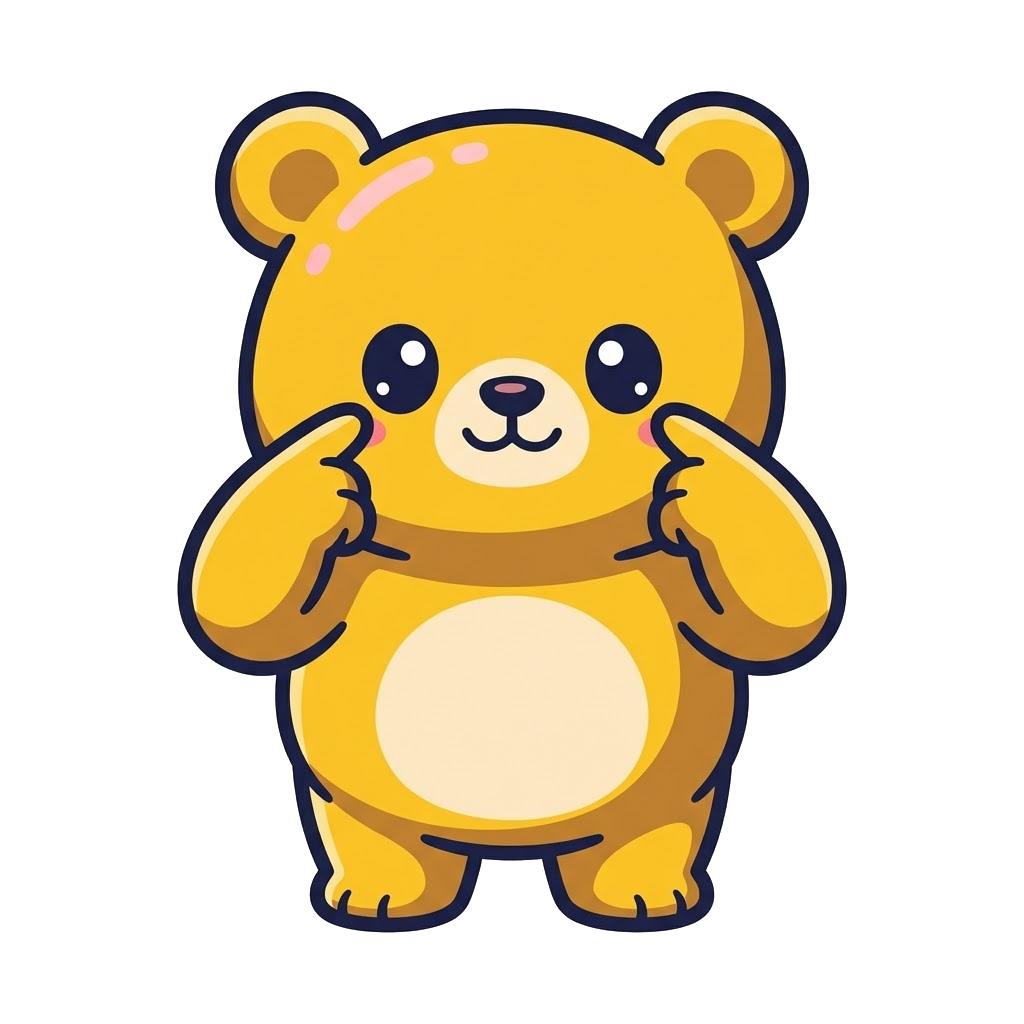
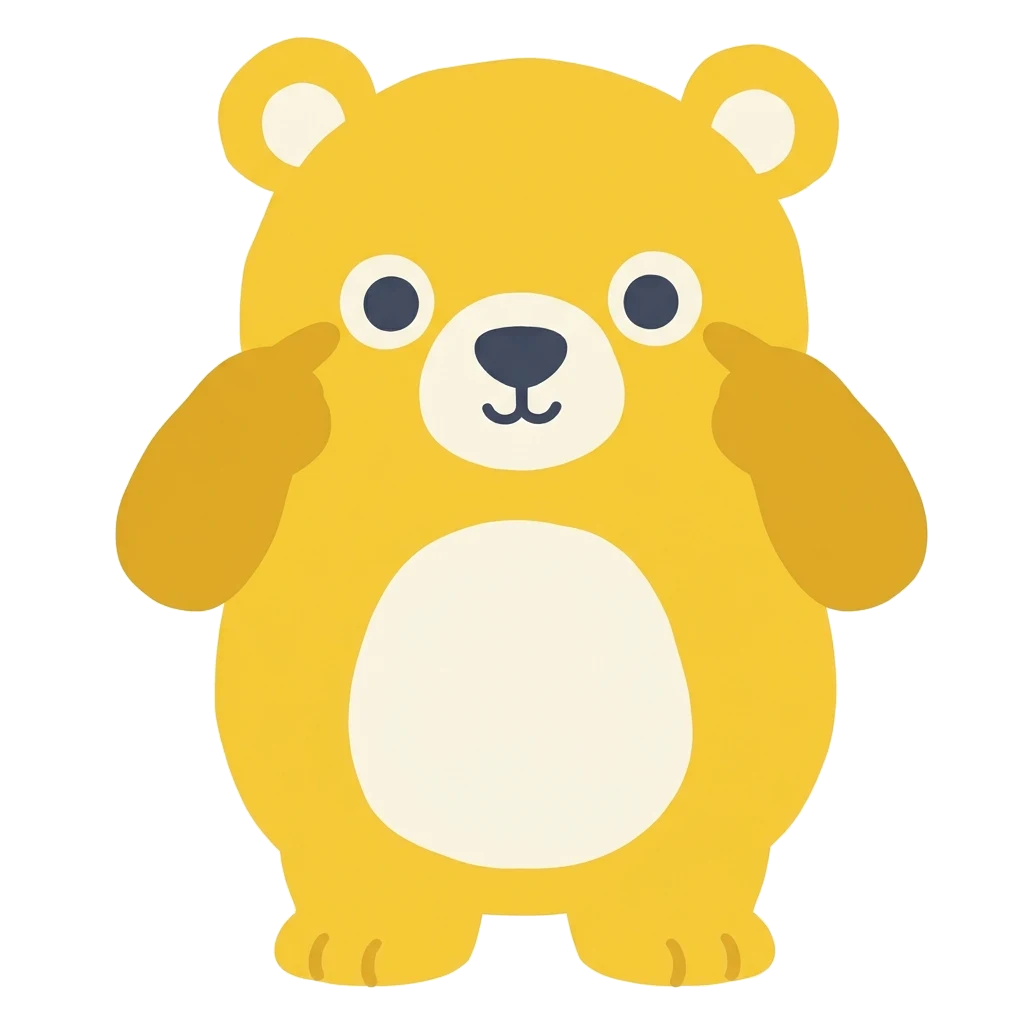
身體 8 張換成 Pok Pok 風：小熊指著自己的部位，手臂用深一階的黃才看得見
無框線風格下黃手疊在黃臉上會消失，角色設定裡指定重疊的手臂用 #e9b93a。
指南的身體一節改成實際用的角色設定與八句動作；
CLAUDE.md 記下 Chrome 會靜默擋掉連續下載、以及怎麼避開。

diff --git a/CLAUDE.md b/CLAUDE.md
@@ -44,8 +44,8 @@
 
 ## 素材現況（2026-11-04）
 
-- 主題 8 組：動物 12、水果 12、交通工具 11、工程車 8、顏色 8（程式畫色球）、生活用品 10（Gemini，2026-11-04）、身體 8（Gemini，2026-11-04，小熊指著該部位）、形狀 8（2026-11-16，程式畫的平塗色塊：圓形／正方形／三角形／長方形／星星／愛心／橢圓形／菱形，`BabyAppUiSprites.EnsureShapeCards` 在選單 2 裡畫，檔案在就不重畫，要改樣子就刪 `Art/Cards/Shapes/*.png` 與 `Art/Covers/cover_shapes.png` 再跑選單 2）。**八組全部有圖，77 張卡的圖與語音都已接進 Deck 資產**（2026-11-16 跑完選單 2 確認 77/77）。注意「有 PNG」不等於「Deck 接上了」：丟完素材沒跑選單 2 的話，Deck 裡的 `image` 會留在 `{fileID: 0}`，整組就退回純文字卡——身體與生活用品兩組就這樣空轉過一段時間。要查就 grep `Assets/BabyApp/Resources/Decks/Deck_*.asset` 還有沒有 `image: {fileID: 0}`。身體卡的 prompt：「Same style, same honey bear character. Subject: the honey bear cub <動作>, front view, whole body visible.」，第一張要先貼小熊角色設定。
-- **2026-11-12 起改成 Pok Pok 風（平塗色塊、無框線、無陰影，見 docs/research/2026-11-12-PokPok風格.md 第 9 節）**，動物 12 張、水果 12 張（2026-11-13）、交通工具 11 張（2026-11-14）、工程車 8 張（2026-11-16，Subject 在 docs/AI圖片生成指南.md）、生活用品 10 張（2026-11-17）與小熊 5 張已換成新風格並去背；身體與 4 張封面在 Assets 裡還是舊的粗黑邊風格，待換（整組換齊才搬進 Assets，不要一組裡兩種風格）。舊圖全部 Gemini 生成並去背（2026-10-23）。OpenMoji 已不再使用（tools/openmoji-* 只是歷史）。
+- 主題 8 組：動物 12、水果 12、交通工具 11、工程車 8、顏色 8（程式畫色球）、生活用品 10（Gemini，2026-11-04）、身體 8（Gemini，2026-11-04，小熊指著該部位）、形狀 8（2026-11-16，程式畫的平塗色塊：圓形／正方形／三角形／長方形／星星／愛心／橢圓形／菱形，`BabyAppUiSprites.EnsureShapeCards` 在選單 2 裡畫，檔案在就不重畫，要改樣子就刪 `Art/Cards/Shapes/*.png` 與 `Art/Covers/cover_shapes.png` 再跑選單 2）。**八組全部有圖，77 張卡的圖與語音都已接進 Deck 資產**（2026-11-16 跑完選單 2 確認 77/77）。注意「有 PNG」不等於「Deck 接上了」：丟完素材沒跑選單 2 的話，Deck 裡的 `image` 會留在 `{fileID: 0}`，整組就退回純文字卡——身體與生活用品兩組就這樣空轉過一段時間。要查就 grep `Assets/BabyApp/Resources/Decks/Deck_*.asset` 還有沒有 `image: {fileID: 0}`。身體卡的角色設定與八句動作在 docs/AI圖片生成指南.md 的「身體」一節；無框線風格下黃手疊在黃臉上會看不見，所以角色設定裡指定「疊在身上的手臂用深一階的蜂蜜黃 #e9b93a」。
+- **2026-11-12 起改成 Pok Pok 風（平塗色塊、無框線、無陰影，見 docs/research/2026-11-12-PokPok風格.md 第 9 節）**，動物 12 張、水果 12 張（2026-11-13）、交通工具 11 張（2026-11-14）、工程車 8 張（2026-11-16，Subject 在 docs/AI圖片生成指南.md）、生活用品 10 張（2026-11-17）、身體 8 張（2026-11-17）與小熊 5 張已換成新風格並去背；只剩 4 張封面（animals／fruits／vehicles／construction）在 Assets 裡還是舊的粗黑邊風格，待換（整組換齊才搬進 Assets，不要一組裡兩種風格）。舊圖全部 Gemini 生成並去背（2026-10-23）。OpenMoji 已不再使用（tools/openmoji-* 只是歷史）。
 - 叫聲：25 個來自 Wikimedia Commons（出處在 docs/素材授權.md）。卡車＝柴油引擎、消防車＝消防鐘、工程車組共用柴油、堆高機專屬。兔子沒叫聲。
 - 名稱語音與小熊台詞（2026-11-05 換成 **Azure AI Speech**）：中文 `zh-TW-HsiaoYuNeural`（曉雨，使用者試聽三個聲音後選的）、英文 `en-US-AvaMultilingualNeural`，**語速 -5%、音高 +12%**（2026-11-16 使用者要「再高亢、開心、活潑一點」，原本是 -10%／+0%；這是工具的預設值），全部是剪掉頭尾靜音的 24kHz `.wav`（卡名 0.4～0.8 秒，以前 edge-tts 每個都墊到 1.87 秒）。工具 `python tools/make-voices-azure.py --voice zh-TW-HsiaoYuNeural --cards --prompts`（`--trial` 試聽到 `tools/azure-trial/`、`--list-voices`、`--only shape_` 只做某個前綴的卡或台詞），**會蓋掉同名檔**。zh-TW 的聲音（曉雨、曉臻、雲哲）**都沒有情緒風格**，想要 cheerful 只能換成會講 zh-TW 的 multilingual 聲音再加 `--style cheerful --style-degree 1.5`（例如 `zh-CN-XiaoxiaoMultilingualNeural`、童聲 `zh-CN-XiaoyouMultilingualNeural`，工具會自動包 `<lang xml:lang="zh-TW">`）；`--trial-lively` 會把五種候選各念六句到 `tools/azure-trial/lively/`（A 舊設定、B 現行、C 曉雨 +20%、D 曉曉 cheerful、E 曉悠童聲）。金鑰放 `tools/azure.key`（第一行 KEY 1、第二行區域 `eastasia`，已 gitignore，記事本存檔會多個 `.txt` 要改掉）；資源是 Free F0 層、每月 50 萬字免費，F0 商用授權不明，**發佈前改 S0 重跑一次整批**。台詞清單在 `tools/prompts.csv`，2026-11-05 全部縮短過（「哇～答對了！你好棒喔！」→「答對了！好棒！」），有逗號的句子要加引號不然 csv 會切掉。舊的 edge-tts `.mp3` 已全刪，`make-voices-edge.py` 只是歷史。**不要跑 `make-prompts.ps1`／`make-voices.ps1`**（舊的 SAPI 版）：它們只檢查 `.wav` 存不存在，會把全部台詞重生成 SAPI 的 `.wav`，而 Builder 的 `Prompt()` 優先吃 `.wav`，小熊的聲音會整個被換掉。
 - 吉祥物：五張蜂蜜小熊 Gemini 生成並去背（Art/Mascot，2026-11-13 換成 Pok Pok 風、無框線）。`EnsureMascotPlaceholders()` 只在檔案缺時畫程式佔位。
@@ -61,7 +61,7 @@
 
 流程：`list_connected_browsers` 先認清哪台是**這台電腦**（`onThisComputer: true`；使用者另一台電腦的 Chrome 也會連著，選錯檔案會存到那台去，2026-11-12 就發生過）→ `select_browser` → `tabs_context_mcp` → 開 gemini.google.com/app → 「+」→「建立圖像」→ 貼 prompt → Enter。生好的圖在頁面上是 `blob:` 的 `<img>`，用 javascript_tool 畫到 canvas → `toBlob` → `<a download="animal_dog.png">`，檔案落在**這個 Chrome 設定檔的下載資料夾**（Profile 1 是 `C:\Users\Bachider\Desktop`，從 `%LOCALAPPDATA%\Google\Chrome\User Data\*\Preferences` 的 `download.default_directory` 查），再 `mv` 進 `tools/gemini-incoming/`（gitignored）→ `python tools/knockout-white.py` 在副本上去背 → cp 進 `Assets/BabyApp/Art/...` → 跑選單 2。
 
-**節奏（會咬人）**：一張 ~40～65 秒。**圖還沒出現就送下一句，前一句的回覆會變成空的**，之後那個對話就壞了（兩句都空）；所以每送一句就輪詢 `img` 數量（naturalWidth ≥ 512、排除 gstatic）確認多了一張才送下一句，一句最多等 ~2 分鐘，沒圖就重送同一句一次（2026-11-13 水果 9 張：西瓜、鳳梨各空一次、重送就有，其餘一次過）。輪詢放在頁面 JS 裡等（`await __wait(n, 38000)`），**單次 `javascript_tool` 超過 45 秒會 CDP 逾時**，所以一次最多等 38 秒、多叫幾次。每一組卡用**新對話**，第一句貼完整風格段落 + 主體，之後只貼「Same style exactly (flat hand-cut paper, solid fills, NO outlines, …). Subject: …」。**模式要是「4 Hydrogen」**（右下角模式挑選器）：額度用完後 Gemini 會自己切到「3.5 Flash-Lite」，隔天也不會切回來，Flash-Lite 畫出來是另一套（紙張紋理灰白底、細線條、淡陰影、白車身白窗戶），2026-11-14 消防車／救護車／警車就這樣重生過一次；白色主體要寫 `cream-white body (warm cream #f3eedf, not pure white)`，不然去背會把車身一起淹掉。一次 browser_batch 最多 25 個動作；視窗窄時用 `find` 拿 ref 而不是座標。**額度**：一天約 25～30 張就會開始偶爾空回覆（2026-11-16 用 Hydrogen 只生到 15 張就滿，別假設一天能做兩組以上），最後 Gemini 直接回「我的程式設計裡沒有這樣的功能」或「I can create more images as soon as your limit resets」= 今天沒了；後者下面會有一塊「已達上限」面板寫重設時間（2026-11-13 看到的是上午 6:26），等那個時間過了再來。
+**節奏（會咬人）**：一張 ~40～65 秒。**圖還沒出現就送下一句，前一句的回覆會變成空的**，之後那個對話就壞了（兩句都空）；所以每送一句就輪詢 `img` 數量（naturalWidth ≥ 512、排除 gstatic）確認多了一張才送下一句，一句最多等 ~2 分鐘，沒圖就重送同一句一次（2026-11-13 水果 9 張：西瓜、鳳梨各空一次、重送就有，其餘一次過）。輪詢放在頁面 JS 裡等（`await __wait(n, 38000)`），**單次 `javascript_tool` 超過 45 秒會 CDP 逾時**，所以一次最多等 38 秒、多叫幾次。每一組卡用**新對話**，第一句貼完整風格段落 + 主體，之後只貼「Same style exactly (flat hand-cut paper, solid fills, NO outlines, …). Subject: …」。**模式要是「4 Hydrogen」**（右下角模式挑選器）：額度用完後 Gemini 會自己切到「3.5 Flash-Lite」，隔天也不會切回來，Flash-Lite 畫出來是另一套（紙張紋理灰白底、細線條、淡陰影、白車身白窗戶），2026-11-14 消防車／救護車／警車就這樣重生過一次；白色主體要寫 `cream-white body (warm cream #f3eedf, not pure white)`，不然去背會把車身一起淹掉。一次 browser_batch 最多 25 個動作；視窗窄時用 `find` 拿 ref 而不是座標。**額度**：一天約 25～30 張就會開始偶爾空回覆（2026-11-16 用 Hydrogen 只生到 15 張就滿，別假設一天能做兩組以上），最後 Gemini 直接回「我的程式設計裡沒有這樣的功能」或「I can create more images as soon as your limit resets」= 今天沒了；後者下面會有一塊「已達上限」面板寫重設時間（2026-11-13 看到的是上午 6:26），等那個時間過了再來。**下載會被 Chrome 鎖（2026-11-17）**：gemini.google.com 不在 Chrome「自動下載」的允許名單，同一個分頁連續用 JS 觸發幾次下載後，Chrome 會整個分頁靜默擋掉（`a.click()` 照樣回成功、檔案不落地、下載紀錄也沒有）；被鎖的分頁救不回來，要開新分頁重新載入同一個對話（圖要等分頁在前景才載得出來）。避開的做法是讓下載發生在真的點擊裡：先 `toBlob` 把圖備好、掛一個一次性的 `pointerdown` 監聽在裡面 `a.click()`，再用 `computer` 點一下輸入框。輸入框的位置每次用 JS 量（`rich-textarea .ql-editor` 的 `getBoundingClientRect`），不要用寫死的座標——視窗大小會變，點到圖片會打開圖片編輯器，之後打的字全進了編輯器、句子根本沒送出去；送出後要驗 `user-query` 的數量有加一。分頁在背景時 `screenshot` 會 CDP 逾時，改用 JS 讀 DOM。
 
 ## 待辦 / 想法
 

diff --git a/docs/AI圖片生成指南.md b/docs/AI圖片生成指南.md
@@ -154,18 +154,48 @@ visible, filling most of the frame.
 
 ### 身體（8 張）— 存到 `Assets/BabyApp/Art/Cards/Body/`
 
-配合找一找「鼻子在哪裡？」。這組畫的是**部位本身**（不是整個人），所以主體要大、要簡單。
+配合找一找「鼻子在哪裡？」。這組畫的是**蜂蜜小熊指著自己的那個部位**（單獨畫一個鼻子、一隻耳朵，小孩認不出來）。八張用同一個對話連續生，角色才會一致。
 
-| 檔名 | 中文名 | Subject |
+第一句貼角色設定＋第一張的動作（2026-11-17 實際用的）：
+
+```
+Character: a chubby golden-yellow honey bear cub, very round body and head, small round
+ears with cream inner ears, round dark eyes, cream muzzle with a dark slate nose and a
+tiny smile, soft cream belly patch, no clothes, not holding anything. Style: flat hand-cut
+paper illustration like a Montessori toddler app (Pok Pok Playroom style). Solid flat color
+fills, NO outlines at all, no gradients, no shading, no shadow, no texture. Slightly
+irregular hand-drawn silhouette, organic not geometric. Limited palette: sunny yellow
+#f9d44c body, cream belly and muzzle, dark slate #424c61 for eyes, nose and tiny details.
+Arms and paws that overlap the body or head are a slightly darker honey yellow (#e9b93a)
+so they stay readable without outlines. Plain pure white background, no text, no arrows,
+square 1:1, 1024x1024. Keep this exact character in every image. First image: the honey
+bear cub touching its own nose with one paw, front view, standing, whole body visible,
+filling most of the frame.
+```
+
+「手臂用深一階的黃」那句不能省：這個風格沒有框線，黃色的手疊在黃色的臉上會整個不見。
+
+第二張起貼短句，只換動作：
+
+```
+Generate the next image. Same character, same style exactly (flat hand-cut paper, solid
+fills, NO outlines, no shading, no texture, plain white background, square, darker
+honey-yellow arms). Now: the honey bear cub [動作], front view, standing, whole body
+visible, filling most of the frame.
+```
+
+| 檔名 | 中文名 | 動作 |
 |---|---|---|
-| `body_eyes.png` | 眼睛 | a pair of big round friendly cartoon eyes with lashes, nothing else |
-| `body_nose.png` | 鼻子 | a simple round cartoon nose on a patch of skin-toned face, nothing else |
-| `body_mouth.png` | 嘴巴 | a big smiling cartoon mouth with a pink tongue, nothing else |
-| `body_ears.png` | 耳朵 | a single cartoon ear, skin tone, side view, nothing else |
-| `body_hands.png` | 手 | two open cartoon hands, palms facing the viewer, fingers spread |
-| `body_feet.png` | 腳 | a pair of bare cartoon feet, toes up, front view |
-| `body_hair.png` | 頭髮 | the top of a child's head with short dark hair, no face visible |
-| `body_tummy.png` | 肚子 | a round cartoon tummy with a belly button, nothing else |
+| `body_nose.png` | 鼻子 | touching its own nose with one paw |
+| `body_eyes.png` | 眼睛 | pointing at its own eyes with both paws, one paw beside each eye, eyes big and wide open |
+| `body_mouth.png` | 嘴巴 | with its mouth wide open in a big happy smile showing a pink tongue, one paw pointing at its mouth |
+| `body_ears.png` | 耳朵 | holding both of its round ears with its paws, arms raised, one paw on each ear |
+| `body_hands.png` | 手 | holding both paws up beside its shoulders, open palms facing the viewer, showing big cream paw pads on both palms |
+| `body_feet.png` | 腳 | sitting on the ground with both legs stretched out toward the viewer, showing two big round feet with cream foot pads, both paws reaching down to touch its feet（這張不要寫 standing） |
+| `body_hair.png` | 頭髮 | with a fluffy tuft of brown hair (warm brown #a8672e) on top of its head between the ears, one paw raised touching the hair |
+| `body_tummy.png` | 肚子 | patting its big round cream tummy with both paws, one paw on each side of the tummy, a small dark slate belly button in the middle, happy smile |
+
+去背用一般的 `knockout-white.py`，**不要加 `--holes`**。
 
 ### 首頁功能格的小圖（7 張，可選）
 
